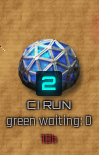
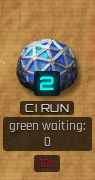
fix(monitor): stage captions and age stamps on a dark plate, white text
Ben: "give the stage text more contrast - I can't read them. Same for the
time stamps under each one." Light-grey Orbitron with an outline still
sank into the tan sand. Same fix order 11 already permits for the count:
captions, age stamps, sub-lines and drain labels now sit on a dark
semi-opaque plate in white; warn/hot ages keep their yellow/red on it.

Claude-Session: https://claude.ai/code/session_015a21LH9eqkn4oZydkWAQ3i

diff --git a/queue_router.py b/queue_router.py
@@ -7587,6 +7587,16 @@ font-size:0.85em;letter-spacing:0.5px;vertical-align:middle}
    (legibility beats fidelity applies to the count, not the label). */
 .ship-cap{font-size:.6em;letter-spacing:.5px;white-space:normal;line-height:1.15;max-width:96px}
 .ship-sub{font-size:.72em;white-space:normal;max-width:110px}
+/* Ben: "give the stage text more contrast - I can't read them. Same for
+   the time stamps." Light-grey text with an outline still sank into the
+   tan sand; the fix is the same one order 11 already permits for the
+   count - a dark plate behind the text, white on it. Warn/hot ages keep
+   their yellow/red on the same plate. */
+.ship-cap,.ship-sub,.ship-age,.ship-stage-drain{color:#fff;background:rgba(0,0,0,.66);
+padding:1px 5px;border-radius:3px;display:inline-block;text-shadow:0 1px 1px #000}
+.ship-cap{margin-top:2px}
+.ship-age{margin-top:2px;color:#f2f4f8}
+.ship-sub{color:#f2f4f8}
 .ship-num.stamp{font-size:.85em}
 /* LORE order 11 #2 / order 1: a real belt segment (>=48px), not a glyph with
    a number beside it. Round 2 (Elrond review, PR #35, defect 4): the first
